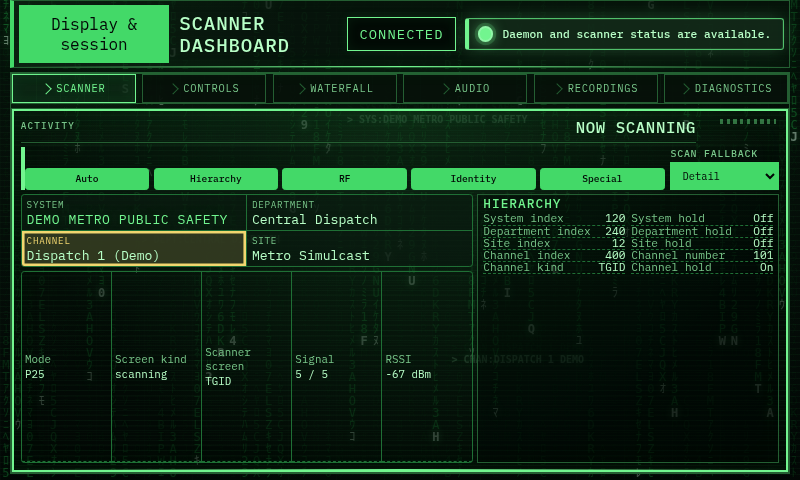
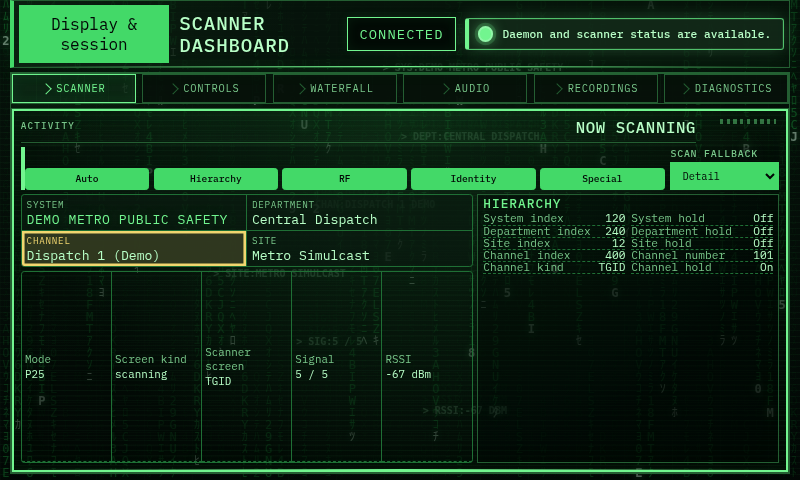
Let Matrix telemetry packets complete their fall

diff --git a/src/sds200/web_assets/matrix-rain.js b/src/sds200/web_assets/matrix-rain.js
@@ -66,6 +66,7 @@
   ));
   const FRAME_INTERVAL_MS = 1000 / 24;
   const MAX_COLUMNS = 192;
+  const MAX_TELEMETRY_PACKETS = 32;
   const MAX_DEVICE_PIXEL_RATIO = 2;
   const STATIC_CELL_BUDGET = 4200;
 
@@ -80,8 +81,10 @@
   let cssHeight = 0;
   let fontSize = 18;
   let columns = [];
-  let liveSequences = [];
+  let liveSequences = Array.from({length: LIVE_FIELD_IDS.length}, () => "");
   let telemetryPackets = [];
+  let pendingTelemetrySequences = [];
+  let telemetrySerial = 0;
   let rainSettings = readRainSettings();
   let animationFrame = 0;
   let lastFrameAt = 0;
@@ -164,17 +167,28 @@
   }
 
   function readLiveSequences() {
-    return LIVE_FIELD_IDS.flatMap((identifier, index) => {
+    return LIVE_FIELD_IDS.map((identifier, index) => {
       const value = sanitizeLiveValue(document.getElementById(identifier)?.textContent);
-      return value ? [`${LIVE_FIELD_LABELS[index]}:${value}`] : [];
+      return value ? `${LIVE_FIELD_LABELS[index]}:${value}` : "";
     });
   }
 
   function refreshLiveSequences() {
-    liveSequences = readLiveSequences();
-    canvas.dataset.matrixRainSources = String(liveSequences.length);
-    if (cssWidth > 0 && cssHeight > 0) {
-      telemetryPackets = createTelemetryPackets();
+    const nextSequences = readLiveSequences();
+    const changedSequences = nextSequences.filter(
+      (sequence, index) => sequence && sequence !== liveSequences[index],
+    );
+    liveSequences = nextSequences;
+    canvas.dataset.matrixRainSources = String(liveSequences.filter(Boolean).length);
+    if (changedSequences.length > 0) {
+      if (cssWidth > 0 && cssHeight > 0) {
+        enqueueTelemetryPackets(changedSequences, {
+          stagger: telemetryPackets.length === 0,
+        });
+      } else {
+        pendingTelemetrySequences.push(...changedSequences);
+        pendingTelemetrySequences = pendingTelemetrySequences.slice(-MAX_TELEMETRY_PACKETS);
+      }
     }
     if (isMatrixActive() && reducedMotion.matches && !forcedColors.matches) {
       configureSurface();
@@ -210,16 +224,7 @@
     }));
   }
 
-  function createTelemetryPackets() {
-    if (liveSequences.length === 0) {
-      return [];
-    }
-    const densityScale = rainSettings.density / 100;
-    const count = Math.min(
-      liveSequences.length,
-      Math.max(1, Math.round(cssWidth / 320 * densityScale)),
-    );
-    const random = seededRandom(surfaceSeed() ^ 0x51d5c7a1);
+  function telemetryPacketMetrics() {
     const packetFontSize = Math.max(10, Math.round(fontSize * 0.64));
     const margin = Math.max(8, fontSize);
     const maxWidth = Math.max(
@@ -227,17 +232,62 @@
       Math.min(cssWidth - margin * 2, Math.max(fontSize * 10, cssWidth * 0.38)),
     );
     const availableX = Math.max(0, cssWidth - margin * 2 - maxWidth);
-    return Array.from({length: count}, (_, index) => ({
-      sequenceIndex: index % liveSequences.length,
+    return {availableX, margin, maxWidth, packetFontSize};
+  }
+
+  function updateTelemetryPacketDataset() {
+    canvas.dataset.matrixRainPacketCount = String(telemetryPackets.length);
+  }
+
+  function createTelemetryPacket(sequence, queueIndex = 0, {stagger = false} = {}) {
+    const {availableX, margin, maxWidth, packetFontSize} = telemetryPacketMetrics();
+    telemetrySerial += 1;
+    const random = seededRandom(
+      surfaceSeed() ^ hashString(`${sequence}|${telemetrySerial}|matrix-telemetry`),
+    );
+    const trailCopies = Math.max(1, Math.round(rainSettings.trail / 18));
+    return {
+      sequence,
+      serial: telemetrySerial,
       x: margin + random() * availableX,
-      y: random() * cssHeight,
-      speed: fontSize * (0.48 + random() * 0.38),
+      y: -packetFontSize * (
+        trailCopies + 2 + (stagger ? queueIndex * 2.4 : 0)
+      ),
+      speed: Math.max(24, cssHeight / 32) * (0.85 + random() * 0.3),
       fontSize: packetFontSize,
       maxWidth,
-    }));
+    };
+  }
+
+  function enqueueTelemetryPackets(sequences, {stagger = false} = {}) {
+    sequences.filter(Boolean).forEach((sequence, index) => {
+      telemetryPackets.push(createTelemetryPacket(sequence, index, {stagger}));
+    });
+    if (telemetryPackets.length > MAX_TELEMETRY_PACKETS) {
+      telemetryPackets.splice(0, telemetryPackets.length - MAX_TELEMETRY_PACKETS);
+    }
+    updateTelemetryPacketDataset();
+  }
+
+  function resizeTelemetryPackets(previousWidth, previousHeight) {
+    if (previousWidth <= 0 || previousHeight <= 0 || telemetryPackets.length === 0) {
+      return;
+    }
+    const {availableX, margin, maxWidth, packetFontSize} = telemetryPacketMetrics();
+    const widthScale = cssWidth / previousWidth;
+    const heightScale = cssHeight / previousHeight;
+    telemetryPackets.forEach((packet) => {
+      packet.x = Math.min(margin + availableX, Math.max(margin, packet.x * widthScale));
+      packet.y *= heightScale;
+      packet.speed *= heightScale;
+      packet.fontSize = packetFontSize;
+      packet.maxWidth = maxWidth;
+    });
   }
 
   function configureSurface() {
+    const previousWidth = cssWidth;
+    const previousHeight = cssHeight;
     const bounds = stage.getBoundingClientRect();
     const nextWidth = Math.max(1, Math.round(bounds.width || globalThis.innerWidth || 1));
     const nextHeight = Math.max(1, Math.round(bounds.height || globalThis.innerHeight || 1));
@@ -267,7 +317,15 @@
     context.textAlign = "center";
     context.textBaseline = "middle";
     columns = createColumns();
-    telemetryPackets = createTelemetryPackets();
+    resizeTelemetryPackets(previousWidth, previousHeight);
+    if (pendingTelemetrySequences.length > 0) {
+      const queuedSequences = pendingTelemetrySequences;
+      pendingTelemetrySequences = [];
+      enqueueTelemetryPackets(queuedSequences, {
+        stagger: telemetryPackets.length === 0,
+      });
+    }
+    updateTelemetryPacketDataset();
     return true;
   }
 
@@ -285,7 +343,7 @@
   }
 
   function drawTelemetryPacket(packet, y, {staticFrame = false} = {}) {
-    const sequence = liveSequences[packet.sequenceIndex];
+    const sequence = packet.sequence;
     if (!sequence) {
       return;
     }
@@ -313,8 +371,17 @@
   }
 
   function drawStaticTelemetryPackets() {
-    telemetryPackets.forEach((packet, index) => {
-      const y = cssHeight * (index + 1) / (telemetryPackets.length + 1);
+    const sequences = liveSequences.filter(Boolean);
+    const {availableX, margin, maxWidth, packetFontSize} = telemetryPacketMetrics();
+    sequences.forEach((sequence, index) => {
+      const random = seededRandom(surfaceSeed() ^ hashString(`${sequence}|${index}|static`));
+      const packet = {
+        sequence,
+        x: margin + random() * availableX,
+        fontSize: packetFontSize,
+        maxWidth,
+      };
+      const y = cssHeight * (index + 1) / (sequences.length + 1);
       drawTelemetryPacket(packet, y, {staticFrame: true});
     });
   }
@@ -322,16 +389,17 @@
   function drawAnimatedTelemetryPackets(elapsedMs) {
     const speedScale = rainSettings.speed / 100;
     const trailCopies = Math.max(1, Math.round(rainSettings.trail / 18));
+    const survivors = [];
     telemetryPackets.forEach((packet) => {
       packet.y += packet.speed * speedScale * elapsedMs / 1000;
-      if (packet.y > cssHeight + packet.fontSize) {
-        packet.y = -packet.fontSize * (trailCopies + 1);
-        packet.sequenceIndex = (
-          packet.sequenceIndex + telemetryPackets.length
-        ) % liveSequences.length;
+      const completeY = cssHeight + packet.fontSize * (trailCopies + 2);
+      if (packet.y <= completeY) {
+        drawTelemetryPacket(packet, packet.y);
+        survivors.push(packet);
       }
-      drawTelemetryPacket(packet, packet.y);
     });
+    telemetryPackets = survivors;
+    updateTelemetryPacketDataset();
   }
 
   function drawStaticFrame() {
@@ -419,7 +487,6 @@
 
     if (rebuild && cssWidth > 0 && cssHeight > 0) {
       columns = createColumns();
-      telemetryPackets = createTelemetryPackets();
     }
     if (isMatrixActive() && reducedMotion.matches && !forcedColors.matches) {
       configureSurface();

diff --git a/tests/test_web_dashboard.py b/tests/test_web_dashboard.py
@@ -1003,6 +1003,7 @@ def test_web_dashboard_serves_packaged_static_assets() -> None:
         'dataset.matrixRain = "ready"',
         "FRAME_INTERVAL_MS = 1000 / 24",
         "MAX_COLUMNS = 192",
+        "MAX_TELEMETRY_PACKETS = 32",
         "MAX_DEVICE_PIXEL_RATIO = 2",
         "STATIC_CELL_BUDGET = 4200",
         ".slice(0, 48)",
@@ -1013,9 +1014,14 @@ def test_web_dashboard_serves_packaged_static_assets() -> None:
         'dataset.matrixRainDensity = String(rainSettings.density)',
         'dataset.matrixRainTransparency = String(rainSettings.transparency)',
         'dataset.matrixRainTrail = String(rainSettings.trail)',
+        'dataset.matrixRainPacketCount = String(telemetryPackets.length)',
+        "sequence !== liveSequences[index]",
+        "telemetryPackets = survivors",
         'root.style.setProperty("--matrix-rain-opacity"',
     ):
         assert contract in matrix_rain.text
+    assert "packet.sequenceIndex" not in matrix_rain.text
+    assert "% liveSequences.length" not in matrix_rain.text
     for identifier in (
         "radio-system",
         "radio-department",

diff --git a/docs/web-dashboard.md b/docs/web-dashboard.md
@@ -398,6 +398,10 @@ message rather than compressing either one.
   current System, Department, Channel, Site, Signal, and RSSI values, such as
   `> CHAN:Fire Paging`. Values are sanitized and length-bounded before drawing,
   and the decorative canvas remains hidden from assistive technology.
+  Each telemetry packet makes one complete top-to-bottom pass and is then
+  discarded rather than wrapping. Routine dashboard redraws do not reset or
+  duplicate it; when a field changes, its previous packet keeps falling while a
+  new packet containing the updated value begins above the viewport.
   Matrix-only controls in **Display & session** adjust fall speed, density, rain
   visibility, and trail length with an immediate preview. Those preferences are
   stored locally by that browser/display, can be reset to the balanced defaults,
